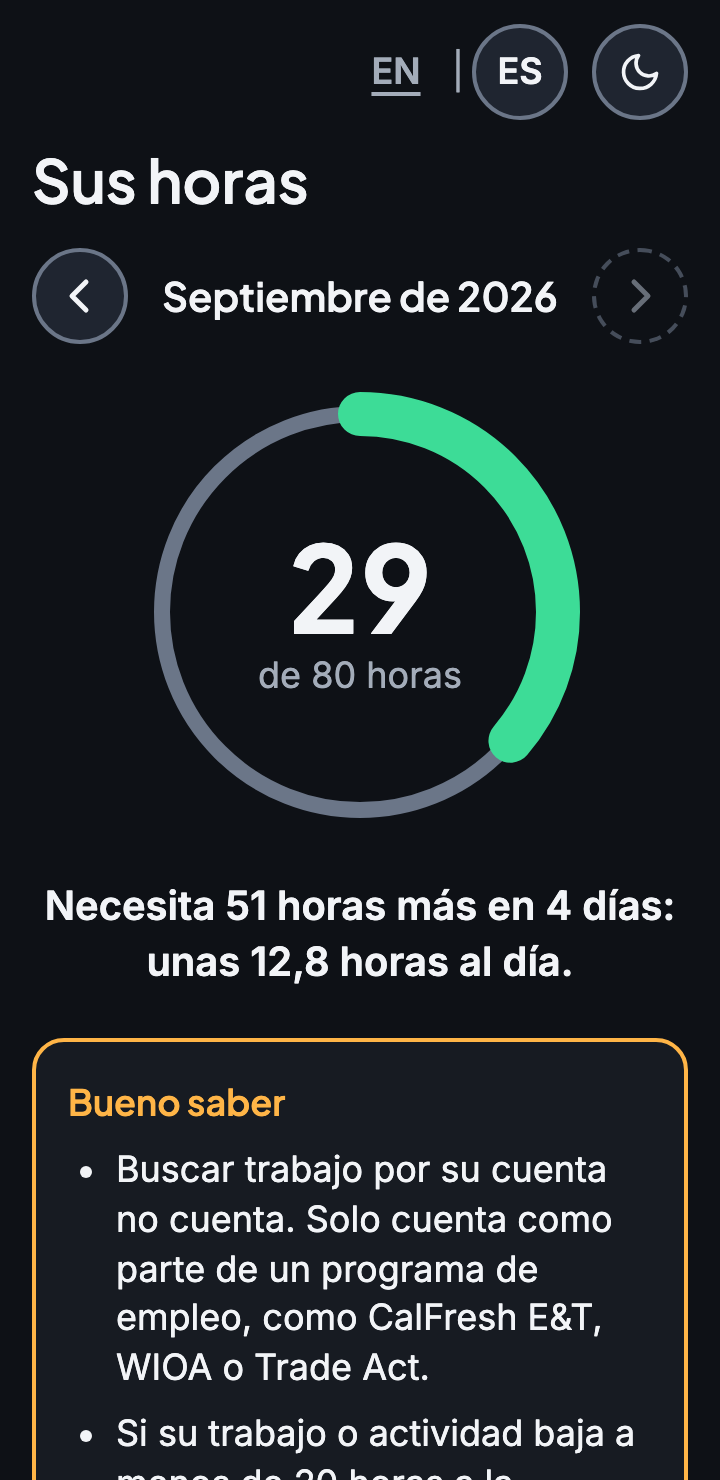
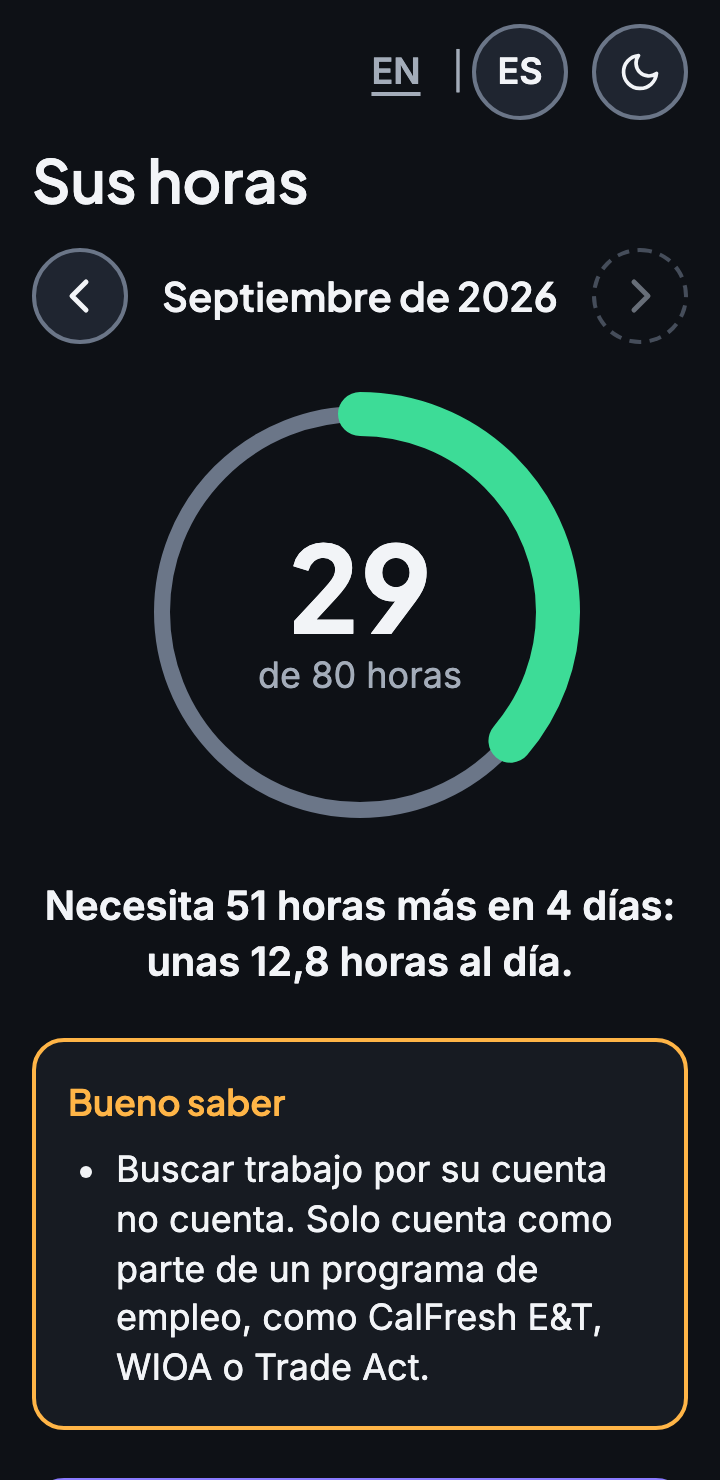
fix(log): neutral rule explainer instead of pace alert, partial-count tag, met demo previous month

Changed region(s): [[0.0306, 0.9324, 0.9167, 1.0], [0.9472, 0.9324, 0.9778, 1.0]]

diff --git a/src/app/log/notes.test.ts b/src/app/log/notes.test.ts
@@ -1,7 +1,7 @@
 import { describe, expect, test } from 'vitest'
 import { summarizeMonth } from '@/lib/hours/summarize'
 import type { Entry } from '@/lib/hours/types'
-import { notesFor } from './notes'
+import { mayCountPartly, notesFor } from './notes'
 
 const entry = (date: string, type: Entry['type'], hours: number, extra: Partial<Entry> = {}): Entry => ({
   id: `${date}-${type}-${hours}`,
@@ -13,48 +13,45 @@ const entry = (date: string, type: Entry['type'], hours: number, extra: Partial<
 })
 
 describe('log notes', () => {
-  test('behind_pace waits until day 7 of the month', () => {
-    const entries = [entry('2026-09-01', 'work', 1)]
-    for (const [today, shown] of [
-      ['2026-09-03', false],
-      ['2026-09-06', false],
-      ['2026-09-07', true],
-      ['2026-09-20', true],
-    ] as const) {
-      const summary = summarizeMonth(entries, '2026-09', today)
-      expect(summary.status, today).toBe('behind')
-      expect(notesFor(summary, false, entries.length).includes('behind_pace'), today).toBe(shown)
-    }
-  })
-
-  test('behind_pace never shows when on track or met', () => {
-    const onTrack = summarizeMonth([entry('2026-09-09', 'work', 15), entry('2026-09-10', 'work', 15)], '2026-09', '2026-09-10')
-    expect(onTrack.status).toBe('on_track')
-    expect(notesFor(onTrack, false, 1)).not.toContain('behind_pace')
-  })
-
-  test('an empty past month shows no behind note; a past month with hours does', () => {
-    const empty = summarizeMonth([], '2026-08', '2026-09-26')
-    expect(notesFor(empty, true, 0)).toEqual([])
-    const some = summarizeMonth([entry('2026-08-10', 'work', 20)], '2026-08', '2026-09-26')
-    expect(notesFor(some, true, 1)).toContain('behind_pace')
+  test('behind_pace is never a note, even when the engine flags it (current or past month)', () => {
+    const current = summarizeMonth([entry('2026-09-01', 'work', 1)], '2026-09', '2026-09-20')
+    expect(current.status).toBe('behind')
+    expect(current.flags).toContain('behind_pace')
+    expect(notesFor(current)).toEqual([])
+    const past = summarizeMonth([entry('2026-08-10', 'work', 20)], '2026-08', '2026-09-26')
+    expect(past.flags).toContain('behind_pace')
+    expect(notesFor(past)).toEqual([])
   })
 
   test('workfare alone gets the workfare_only note; mixed gets workfare_mixed only', () => {
     const only = summarizeMonth([entry('2026-09-02', 'workfare', 10)], '2026-09', '2026-09-26')
-    expect(notesFor(only, false, 1)).toContain('workfare_only')
-    expect(notesFor(only, false, 1)).not.toContain('workfare_mixed')
+    expect(notesFor(only)).toEqual(['workfare_only'])
     const mixed = summarizeMonth(
       [entry('2026-09-02', 'workfare', 10), entry('2026-09-03', 'work', 10)],
       '2026-09',
       '2026-09-26',
     )
-    expect(notesFor(mixed, false, 2)).toContain('workfare_mixed')
-    expect(notesFor(mixed, false, 2)).not.toContain('workfare_only')
+    expect(notesFor(mixed)).toEqual(['workfare_mixed'])
   })
 
   test('job search outside a program gets its note', () => {
     const s = summarizeMonth([entry('2026-09-02', 'job_search', 3, { inProgram: false })], '2026-09', '2026-09-26')
-    expect(notesFor(s, false, 1)).toContain('job_search_outside_program')
+    expect(notesFor(s)).toEqual(['job_search_outside_program'])
+  })
+
+  test('capped in-program job search: the note, and "May count partly" only on in-program job-search rows', () => {
+    const program = entry('2026-09-02', 'program', 4)
+    const inProgram = entry('2026-09-03', 'job_search', 5, { inProgram: true })
+    const outside = entry('2026-09-04', 'job_search', 1, { inProgram: false })
+    const capped = summarizeMonth([program, inProgram, outside], '2026-09', '2026-09-26')
+    expect(capped.flags).toContain('job_search_capped')
+    expect(notesFor(capped)).toContain('job_search_capped')
+    expect(mayCountPartly(capped, inProgram)).toBe(true)
+    expect(mayCountPartly(capped, outside)).toBe(false)
+    expect(mayCountPartly(capped, program)).toBe(false)
+
+    const notCapped = summarizeMonth([entry('2026-09-02', 'program', 10), inProgram], '2026-09', '2026-09-26')
+    expect(notCapped.flags).not.toContain('job_search_capped')
+    expect(mayCountPartly(notCapped, inProgram)).toBe(false)
   })
 })

diff --git a/src/app/log/HourLog.tsx b/src/app/log/HourLog.tsx
@@ -12,7 +12,7 @@ import type { Entry, MonthSummary } from "@/lib/hours/types";
 import { EntryForm } from "./EntryForm";
 import { Ring } from "./Ring";
 import { formatDay, formatMonth, formatNumber } from "./format";
-import { notesFor } from "./notes";
+import { mayCountPartly, notesFor } from "./notes";
 
 // The hour log: one route, two views. The list (ring, pace line, notes, entries) is the
 // default; the add/edit form is `?add=1` / `?edit=<id>`. Views switch with the native
@@ -147,12 +147,12 @@ export function HourLog() {
   const monthName = formatMonth(locale, month);
   const met = summary.status === "met";
   const ringLabel = isPast
-    ? t("ring.labelPast", { counted: fmt(summary.counted), month: monthName })
+    ? t("ring.labelPast", { counted: fmt(summary.counted), month: formatMonth(locale, month, { capitalize: false }) })
     : met
       ? t("ring.labelMet", { counted: fmt(summary.counted) })
       : t("ring.label", { counted: fmt(summary.counted) });
 
-  const notes = loaded ? notesFor(summary, isPast, monthEntries.length) : [];
+  const notes = loaded ? notesFor(summary) : [];
   const groups = groupByDate(monthEntries);
 
   return (
@@ -198,7 +198,7 @@ export function HourLog() {
             countedText={fmt(summary.counted)}
             label={loaded ? ringLabel : t("loading")}
             unitText={t("ring.of80")}
-            doneText={t("ring.done")}
+            doneText={isPast ? t("ring.donePast") : t("ring.done")}
             met={met}
             loading={!loaded}
           />
@@ -265,6 +265,9 @@ export function HourLog() {
                               <p className="text-lg tabular-nums">{hoursText(entry.hours)}</p>
                               {entry.place && <p className="truncate text-lg text-text-muted">{entry.place}</p>}
                               {notCounted && <p className="text-lg font-semibold text-pace">{t("notCounted")}</p>}
+                              {mayCountPartly(summary, entry) && (
+                                <p className="text-lg font-semibold text-pace">{t("mayCountPartly")}</p>
+                              )}
                               {entry.type === "workfare" && (
                                 <p className="text-lg font-semibold text-pace">{t("workfareTag")}</p>
                               )}
@@ -293,6 +296,22 @@ export function HourLog() {
         </>
       )}
 
+      {/* Neutral background, collapsed by default: the rule's basics, including the 10-day
+          report, without the log claiming it knows the person is behind or screened. */}
+      <details className="group rounded-2xl border-2 border-border bg-surface">
+        <summary className="flex min-h-12 cursor-pointer list-none items-center justify-between gap-3 px-4 py-2 text-lg font-semibold [&::-webkit-details-marker]:hidden">
+          <span>{t("rule.title")}</span>
+          <svg width="20" height="20" viewBox="0 0 24 24" fill="none" stroke="currentColor" strokeWidth="2.5" strokeLinecap="round" strokeLinejoin="round" aria-hidden="true" className="shrink-0 group-open:rotate-180 motion-safe:transition-transform">
+            <path d="M6 9l6 6 6-6" />
+          </svg>
+        </summary>
+        <ul className="flex list-disc flex-col gap-2 pr-4 pb-4 pl-10">
+          <li className="text-lg leading-snug">{t("rule.adds")}</li>
+          <li className="text-lg leading-snug">{t("rule.jobSearch")}</li>
+          <li className="text-lg leading-snug">{t("rule.report")}</li>
+        </ul>
+      </details>
+
       <footer className="mt-2 flex flex-col gap-3 border-t-2 border-border pt-4">
         <p className="flex items-start gap-2 text-lg text-text-muted">
           <LockIcon />
@@ -315,7 +334,7 @@ function paceLine(
   t: (key: string, values?: Record<string, string | number>) => string,
 ): string {
   if (isPast) {
-    if (summary.status === "met") return t("pace.pastMet");
+    if (summary.status === "met") return t("pace.pastMet", { counted: fmt(summary.counted) });
     if (entryCount === 0) return t("pace.pastEmpty");
     return t("pace.pastBehind", { counted: fmt(summary.counted) });
   }

diff --git a/src/lib/hours/demo.ts b/src/lib/hours/demo.ts
@@ -5,8 +5,9 @@
 // shifts, two volunteering shifts, and one job-search entry outside a
 // qualifying program (so the "outside a program" flag shows).
 //
-// Achievable, not hopeless (Task 7 fix round 1 ruling): the counted total
-// targets clamp(80 − 3.5 × daysLeft, 10, 76), rounded down to a quarter hour.
+// Achievable, not hopeless (Task 7 fix round 1 ruling): the current month's
+// counted total targets clamp(80 − 3.5 × daysLeft, 10, 76), rounded down to a
+// quarter hour.
 // That leaves about 3.5 hours a day to go, so the demo shows 'behind' with a
 // calm, doable hours-per-day number instead of "12.8 hours a day".
 //
@@ -21,6 +22,9 @@ import { addMonths, daysInMonth, monthOf } from '@/lib/dates'
 import type { ActivityType, Entry } from './types'
 
 const PER_DAY_LEFT = 3.5
+// The previous month (seeded on days 1-3) is over, so it's shown as done: a past month
+// under 80 would read as a failed month (fix round 2 ruling).
+export const DEMO_PREVIOUS_MONTH_TOTAL = 82.5
 const MIN_GOAL = 10
 const MAX_GOAL = 76
 
@@ -49,10 +53,9 @@ export function demoGoal(month: string, throughDay: number): number {
   return goal
 }
 
-// Builds one month's worth of demo entries on days 1..throughDay (inclusive).
-function buildMonthEntries(month: string, throughDay: number): Entry[] {
-  const goal = demoGoal(month, throughDay)
-
+// Builds one month's worth of demo entries on days 1..throughDay (inclusive), with a
+// counted total of `goal` hours.
+function buildMonthEntries(month: string, throughDay: number, goal: number): Entry[] {
   const entries: Entry[] = []
   let counted = 0
   let index = 0
@@ -104,17 +107,18 @@ function buildMonthEntries(month: string, throughDay: number): Entry[] {
 
 // Deterministic demo entries for the current month of `today`. If `today`
 // falls within the first three days of the month, the previous month is
-// seeded too (fully, since it's over), so the demo has history to show when
-// the current month has barely started.
+// seeded too (fully, since it's over, and met: DEMO_PREVIOUS_MONTH_TOTAL), so
+// the demo has a finished month to show when the current month has barely
+// started. /log opens on that month on days 1-3.
 export function demoEntries(today: string): Entry[] {
   const month = monthOf(today)
   const dayOfMonth = Number(today.slice(8, 10))
 
-  const currentMonthEntries = buildMonthEntries(month, dayOfMonth)
+  const currentMonthEntries = buildMonthEntries(month, dayOfMonth, demoGoal(month, dayOfMonth))
 
   if (dayOfMonth <= 3) {
     const prevMonth = addMonths(month, -1)
-    const prevMonthEntries = buildMonthEntries(prevMonth, daysInMonth(prevMonth))
+    const prevMonthEntries = buildMonthEntries(prevMonth, daysInMonth(prevMonth), DEMO_PREVIOUS_MONTH_TOTAL)
     return [...prevMonthEntries, ...currentMonthEntries]
   }
 

diff --git a/e2e/log.spec.ts b/e2e/log.spec.ts
@@ -54,6 +54,15 @@ test("1. empty state, then 4 hours of volunteering today shows 4 of 80 and the e
   await expect(ring(page)).toHaveAttribute("aria-label", "0 of 80 hours this month");
   await expect(page.getByTestId("pace")).toHaveText("No hours yet this month.");
   await expect(page.getByText("Your hours are saved only on this phone.")).toBeVisible();
+  // "How the rule works" is collapsed; the 10-day report line lives only inside it.
+  const tenDays = page.getByText(
+    "If the work rule applies to you and your hours drop below 20 a week, tell your county within 10 days.",
+  );
+  await expect(tenDays).toBeHidden();
+  await page.getByText("How the rule works", { exact: true }).click();
+  await expect(tenDays).toBeVisible();
+  await expect(page.getByText("Work, volunteering and job programs add up. You need 80 hours a month.")).toBeVisible();
+  await page.getByText("How the rule works", { exact: true }).click();
   await expect(page.getByRole("link", { name: "Check if the rule applies to you" })).toHaveAttribute("href", "/screener");
 
   await addButton(page).click();
@@ -123,6 +132,25 @@ test("3. job search outside a program shows the note and doesn't change the coun
   const row = rows(page).filter({ hasText: "Job search" });
   await expect(row).toContainText("3 hours");
   await expect(row).toContainText("Doesn't count");
+  // One paid hour puts the month behind (1 hour can never project to 80): the pace line says
+  // so factually, but no "tell your county" alert appears among the notes.
+  await addEntry(page, { type: /^Paid work/, hours: "1" });
+  await expect(ring(page)).toHaveAttribute("aria-label", "1 of 80 hours this month");
+  await expect(page.getByTestId("pace")).toHaveText(/^You need \d+ more hours/);
+  await expect(page.getByRole("region", { name: "Good to know" })).not.toContainText("10 days");
+  await expect(page.getByText(/within 10 days/)).toBeHidden();
+});
+
+test("3b. capped job search in a program: the row says it may count partly", async ({ page }) => {
+  await gotoLog(page);
+  await addEntry(page, { type: /^Job training or program/, hours: "4" });
+  await addEntry(page, { type: /^Job search/, hours: "5", inProgram: true });
+  // 4 program hours + job search counted only up to 3.75 (less than the program hours).
+  await expect(ring(page)).toHaveAttribute("aria-label", "7.8 of 80 hours this month");
+  const jobSearch = rows(page).filter({ hasText: "Job search" });
+  await expect(jobSearch).toContainText("May count partly");
+  await expect(jobSearch).not.toContainText("Doesn't count");
+  await expect(rows(page).filter({ hasText: "Job training or program" })).not.toContainText("May count partly");
 });
 
 test("4. 25 hours shows an error on the hours field, focuses it, and saves nothing", async ({ page }) => {

diff --git a/src/app/log/notes.ts b/src/app/log/notes.ts
@@ -5,29 +5,24 @@ import type { Flag, MonthSummary } from "@/lib/hours/types";
 // `workfare_only` is not an engine flag: the engine leaves workfare out of the count
 // (docs/research/calfresh-rules-verification.md row 6b: workfare can't be combined with
 // other hours), so a workfare-only month would otherwise show 0 with no explanation.
-export type Note = Flag | "workfare_only";
+//
+// The engine's `behind_pace` flag is deliberately never a note (fix round 2 ruling). The log
+// can't know whether the person was screened under H.R. 1 or is just logging late, so a
+// pace-triggered "tell your county" alert can alarm the wrong people (research row 11). The
+// 10-day reporting rule lives in the neutral "How the rule works" disclosure instead, and
+// the pace line itself stays factual.
+export type Note = Exclude<Flag, "behind_pace"> | "workfare_only";
 
-export const NOTE_ORDER: Note[] = [
-  "job_search_outside_program",
-  "job_search_capped",
-  "workfare_mixed",
-  "workfare_only",
-  "behind_pace",
-];
+export const NOTE_ORDER: Note[] = ["job_search_outside_program", "job_search_capped", "workfare_mixed", "workfare_only"];
 
-// The "tell your county within 10 days" note waits for a week of the month, so someone who
-// just started logging isn't alarmed by a pace built on one or two days (fix round 1 ruling).
-export const BEHIND_NOTE_MIN_DAYS = 7;
-
-export function notesFor(summary: MonthSummary, isPast: boolean, entryCount: number): Note[] {
-  const set = new Set<Note>(summary.flags);
+export function notesFor(summary: MonthSummary): Note[] {
+  const set = new Set<string>(summary.flags);
   if (summary.byType.workfare > 0 && !set.has("workfare_mixed")) set.add("workfare_only");
-  const showBehind =
-    summary.status === "behind" &&
-    summary.daysElapsed >= BEHIND_NOTE_MIN_DAYS &&
-    // A past month with nothing in it is most likely a month before the person started
-    // using the app, not a month they fell behind in.
-    !(isPast && entryCount === 0);
-  if (!showBehind) set.delete("behind_pace");
   return NOTE_ORDER.filter((note) => set.has(note));
+}
+
+// In-program job-search rows get a "May count partly" tag when the month's job search is
+// capped (research row 7: it counts only while it is less than the other program hours).
+export function mayCountPartly(summary: MonthSummary, entry: { type: string; inProgram?: boolean }): boolean {
+  return entry.type === "job_search" && entry.inProgram === true && summary.flags.includes("job_search_capped");
 }

diff --git a/src/lib/hours/__tests__/store.test.ts b/src/lib/hours/__tests__/store.test.ts
@@ -13,8 +13,8 @@ import {
 } from '../store'
 import { summarizeMonth, validateEntry } from '../summarize'
 import type { Entry } from '../types'
-import { daysInMonth, monthOf } from '@/lib/dates'
-import { demoGoal } from '../demo'
+import { addMonths, daysInMonth, monthOf } from '@/lib/dates'
+import { DEMO_PREVIOUS_MONTH_TOTAL, demoGoal } from '../demo'
 
 // vitest's default environment is Node, which has no sessionStorage. safe.ts
 // reads globalThis.sessionStorage, so give it a minimal in-memory stand-in
@@ -270,6 +270,10 @@ describe('demoEntries', () => {
         expect(summary.counted, today).toBe(demoGoal(month, day))
         expect(summary.status, today).toBe('behind')
         if (summary.neededPerDay !== null) expect(summary.neededPerDay, today).toBeLessThanOrEqual(4.5)
+        if (day <= 3) {
+          const prev = addMonths(month, -1)
+          expect(summarizeMonth(entries, prev, today).status, `${today} previous month`).toBe('met')
+        }
         expect(summary.flags, today).toContain('job_search_outside_program')
       }
     }
@@ -283,6 +287,16 @@ describe('demoEntries', () => {
     const octoberEntries = entries.filter((e) => monthOf(e.date) === '2026-10')
     for (const e of octoberEntries) {
       expect(e.date <= '2026-10-02').toBe(true)
+    }
+
+    // The previous month is over and shown as met (82.5 hours), never a failed month.
+    const september = summarizeMonth(entries, '2026-09', '2026-10-02')
+    expect(september.status).toBe('met')
+    expect(september.counted).toBe(DEMO_PREVIOUS_MONTH_TOTAL)
+    expect(september.counted).toBeGreaterThanOrEqual(80)
+    for (const e of septemberEntries) {
+      const others = entries.filter((o) => o.id !== e.id && o.date === e.date)
+      expect(validateEntry(e, others)).toEqual([])
     }
 
     // Deterministic: calling it again produces the exact same entries.

diff --git a/src/app/log/format.ts b/src/app/log/format.ts
@@ -36,9 +36,10 @@ function capitalize(text: string, locale: string): string {
 }
 
 // "September 2026" / "Septiembre de 2026"
-export function formatMonth(locale: string, month: string): string {
+// Capitalized for a heading; pass `{ capitalize: false }` for mid-sentence use ("en septiembre").
+export function formatMonth(locale: string, month: string, { capitalize: cap = true } = {}): string {
   const text = new Intl.DateTimeFormat(locale, { month: "long", year: "numeric", timeZone: "UTC" }).format(utcDate(month));
-  return capitalize(text, locale);
+  return cap ? capitalize(text, locale) : text;
 }
 
 // "Saturday, September 26" / "Sábado, 26 de septiembre"

diff --git a/src/app/log/format.test.ts b/src/app/log/format.test.ts
@@ -21,6 +21,7 @@ describe('hour log formatting', () => {
   test('months and days are formatted from the calendar date, not the device time zone', () => {
     expect(formatMonth('en', '2026-09')).toBe('September 2026')
     expect(formatMonth('es', '2026-09')).toBe('Septiembre de 2026')
+    expect(formatMonth('es', '2026-09', { capitalize: false })).toBe('septiembre de 2026')
     expect(formatDay('en', '2026-10-01')).toBe('Thursday, October 1')
     expect(formatDay('es', '2026-10-01')).toBe('Jueves, 1 de octubre')
   })

diff --git a/docs/AI-USE.md b/docs/AI-USE.md
@@ -26,5 +26,6 @@
 | 2026-09-26 | `src/app/screener/Checklist.tsx`, `src/lib/rules/{schema,engine}.ts`, `rules/ca-calfresh-2026.json` (`veteran_info.checklistNote_en/_es` only), `src/lib/rules/__tests__/{schema,engine,real-file}.test.ts`, `src/lib/i18n/__tests__/exempt-wording.test.ts`, `messages/{en,es}.json`, `e2e/screener.spec.ts`, `docs/screenshots/phase2/*` | Phase 2, Task 4 fix round 1: full-width checklist rows with the "More about this" disclosure below each label; a sticky bottom action bar ("Continue (n checked)" when n ≥ 1, otherwise "None of these apply" and "I'm not sure"), hidden in print; checklist `<fieldset>` named by the heading and described by the sub-line; an optional `checklistNote_en/_es` rule field (schema-limited to info rules with outcome `continue`, surfaced by `ruleText`) shown on the checklist instead of the hint; tests that the veteran note quotes the disability rule's current labels. **The new `checklistNote_es` and "Continuar ({n} marcada/s)" Spanish were drafted by AI and need native review.** | Controller ruled the layout, the sticky bar's contents, the new field's name/scope and the exact English and Spanish note wording |
 | 2026-09-26 | `src/lib/hours/types.ts`, `src/lib/hours/summarize.ts`, `src/lib/hours/__tests__/summarize.test.ts` | Phase 2, Task 5: TDD (RED confirmed `Cannot find module '../summarize'`, then GREEN, 14/14 new tests; 256/256 total, `npm run typecheck` clean) for the pure month-summary engine (`summarizeMonth`, `validateEntry`). All hour math is done in integer quarter-hours (`hours * 4`) and converted back only at the return boundary, so repeated 0.25-hour additions (e.g. 79.75 + 0.25) never drift. `jobSearchCounted = min(jobSearchInProgram, max(0, program − 1 quarter-hour))`: job search counts only inside an E&T/WIOA/Trade Act program and only while strictly under the program's own hours, matching the brief's exact formula (a first draft without the "minus one quarter-hour" term over-counted the brief's own test case, 10 program hours capping 12 in-program job-search hours at 10 instead of the required 9.75 — caught by the brief's test, not discovered independently). Workfare is excluded from `counted` and flags `workfare_mixed` when mixed with any other counted activity or out-of-program job search | Team's task-5 brief specified the exact types, counting-rule formulas, and full test file verbatim; the quarter-hour cap formula was implemented, checked against the brief's own test, corrected once, and re-verified rather than guessed |
 | 2026-09-26 | `package.json` (added `idb` dependency, `fake-indexeddb` devDependency), `src/lib/hours/store.ts`, `src/lib/hours/demo.ts`, `src/lib/hours/__tests__/store.test.ts` | Phase 2, Task 6: TDD (RED confirmed all 10 new tests fail against a stub `store.ts` whose exports each `throw new Error('not implemented')`, then GREEN, 10/10; 269/269 total, `npm run typecheck` and `npm run build` clean) for the IndexedDB entry store (`openStore`, `EntryValidationError`, `getMode`/`setMode`, `demoEntries`, `startDemo`/`exitDemo`) using `idb`'s `openDB` (version 1, object store `entries` keyed on `id`, index on `date`). Two entirely separate IndexedDB databases back the two modes (`hourproof` / `hourproof-demo`); `startDemo`/`exitDemo` only ever clear-and-reseed the demo database, and mode itself is just a `hp.mode` flag in `sessionStorage` via the existing `safe.ts` helpers — never a data migration. `put()` reads that day's other entries from the `date` index itself and excludes the entry's own previous version (same id) before calling `validateEntry`, so editing an entry doesn't double-count its own old hours. `demoEntries(today)` (in the new `demo.ts`) is deterministic (no `Math.random`/`Date.now` — ids and `createdAt` are derived from the date string and a running index) and builds a composite "Marco"-style persona: variable-length warehouse work shifts, two community-kitchen volunteer shifts, and one job-search entry outside a program, spread over odd days up to `today` and capped at ~65% of that month's prorated 80-hour target (verified in-test to land strictly between 50% and 80% of the prorated target, giving `summarizeMonth(...).status === 'behind'`); if `today` is in the first 3 days of a month, the full previous month is seeded too. A real bug was caught by the brief's own test, not found independently: the first draft picked volunteer days by absolute day-of-month (e.g. day 6, day 13), but the work-shift loop only ever lands on odd days (1, 3, 5, ...), so an even volunteer day could never be hit — one of the two volunteer shifts silently disappeared. Fixed by picking volunteer slots by shift index (3rd and 6th shift) instead of by calendar day. `openStore` opens a fresh `idb` connection per call rather than caching one per database name, so mode-switching and tests that reset IndexedDB between cases can't be served a stale connection | Team's task-6 brief specified the exact interfaces, DB/store/index names, demo-persona constraints (places "Warehouse"/"Community kitchen", ~65% of prorated target, previous-month seeding rule) and the test list verbatim. The connection-caching decision (no cache, vs. a per-db-name singleton) and the volunteer-slot bug/fix were not in the brief and are flagged here for review; `npm run build` was also run once per the brief and confirms the store isn't imported by any server-rendered route yet, so it never runs on the server |
-| 2026-09-26 | `src/app/log/{page,HourLog,EntryForm,Ring}.tsx`, `src/app/log/format.ts`, `src/app/log/format.test.ts`, `src/components/ui/DemoBanner.tsx`, `src/components/ui/Screen.tsx` (banner slot), `src/app/page.tsx` (banner on home), `messages/en.json`, `messages/es.json` (`log.*`, `demo.*`), `src/lib/theme/__tests__/contrast.test.ts`, `scripts/measure-js.mjs` (`/log` route), `e2e/log.spec.ts`, `docs/screenshots/phase2/log-*` | Phase 2, Task 7: built the hour log on one route. A hand-written SVG 80-hour ring (220px, 22px `proof` arc on a `surface-2` track, 200ms arc transition only under `motion-safe`, `role="img"` with a localized label), the pace line and plain-word notes from `summarizeMonth` (plus a UI-only `workfare_only` note, since the engine leaves workfare out of the count), month navigation capped at the current month, an entry list grouped by date, and an add/edit form (`?add=1` / `?edit=<id>` switched with the native history API so it works offline and the phone's Back closes it) with type radio cards, −/+ quarter-hour steps, 1/2/4/8 chips, a comma-tolerant hours box, errors from `EntryValidationError` codes linked by `aria-describedby` with focus on the first one, and a keyboard-reachable delete confirm. The demo banner (`pace` bar, "Exit demo") shows on `/log` and `/`. 8 new e2e cases (41/41 total), 4 new format unit tests and 6 contrast tests. **The Spanish `log.*` and `demo.*` strings were drafted by AI and need native review**, in particular "trabajo por beneficios (workfare)", "Bueno saber" and the pace sentences. | The plan and task brief fixed the screen's contents, English wording of the pace lines and notes, the ring spec, the form fields and the 7 e2e cases; the controller set the demo previous-month rule, the 200 KB budget and the accessibility requirements |
+| 2026-09-26 | `src/app/log/{page,HourLog,EntryForm,Ring}.tsx`, `src/app/log/format.ts`, `src/app/log/format.test.ts`, `src/components/ui/DemoBanner.tsx`, `src/components/ui/Screen.tsx` (banner slot), `src/app/page.tsx` (banner on home), `messages/en.json`, `messages/es.json` (`log.*`, `demo.*`), `src/lib/theme/__tests__/contrast.test.ts`, `scripts/measure-js.mjs` (`/log` route), `e2e/log.spec.ts`, `docs/screenshots/phase2/log-*` | Phase 2, Task 7: built the hour log on one route. A hand-written SVG 80-hour ring (220px, 22px `proof` arc over a track that is now an 8px `border`-token circle (fix round 1; it was `surface-2` at first), 200ms arc transition only under `motion-safe`, `role="img"` with a localized label), the pace line and plain-word notes from `summarizeMonth` (plus a UI-only `workfare_only` note, since the engine leaves workfare out of the count), month navigation capped at the current month, an entry list grouped by date, and an add/edit form (`?add=1` / `?edit=<id>` switched with the native history API so it works offline and the phone's Back closes it) with type radio cards, −/+ quarter-hour steps, 1/2/4/8 chips, a comma-tolerant hours box, errors from `EntryValidationError` codes linked by `aria-describedby` with focus on the first one, and a keyboard-reachable delete confirm. The demo banner (`pace` bar, "Exit demo") shows on `/log` and `/`. 8 new e2e cases (41/41 total), 4 new format unit tests and 6 contrast tests. **The Spanish `log.*` and `demo.*` strings were drafted by AI and need native review**, in particular "trabajo por beneficios (workfare)", "Bueno saber" and the pace sentences. | The plan and task brief fixed the screen's contents, English wording of the pace lines and notes, the ring spec, the form fields and the 7 e2e cases; the controller set the demo previous-month rule, the 200 KB budget and the accessibility requirements |
 | 2026-09-26 | `src/lib/hours/demo.ts`, `src/lib/hours/__tests__/store.test.ts`, `src/app/log/{HourLog,EntryForm,Ring}.tsx`, `src/app/log/notes.ts`, `src/app/log/notes.test.ts`, `src/app/globals.css`, `messages/en.json`, `messages/es.json`, `src/lib/theme/__tests__/contrast.test.ts`, `e2e/log.spec.ts`, `docs/screenshots/phase2/log-*` | Phase 2, Task 7 fix round 1, six controller rulings: (1) the ring track is now an 8px `border`-token circle under the 22px arc, so an empty ring reads as a ring; (2) the demo's counted total targets `floor-quarter(clamp(80 − 3.5 × daysLeft, 10, 76))`, which leaves about 3.5 hours a day to go, and demo entries have no `place` (seeded names were English-only on Spanish screens); new tests for 2026-10-20, 2026-09-26 and every day of four months; `/log` opens the demo on the previous month on days 1-3; (3) the form order is date → hours → type → program → place → note, with a sticky Save/Cancel bar, and focus moves center fields clear of the bar; (4) the chosen date is spelled out in the page language under the native date input; (5) the behind note is reworded and shows only when behind and at least 7 days into the month (`notes.ts`, unit-tested); (6) the workfare, job-search and in-program strings are reworded to match research rows 6b and 7. **The new Spanish strings were drafted by AI and need native review.** | The controller made all six rulings, including the demo formula and the new English behind-note wording |
+| 2026-09-26 | `src/app/log/{HourLog.tsx,notes.ts,notes.test.ts,format.ts,format.test.ts}`, `src/lib/hours/demo.ts`, `src/lib/hours/__tests__/store.test.ts`, `messages/en.json`, `messages/es.json`, `e2e/log.spec.ts`, `docs/screenshots/phase2/log-*` | Phase 2, Task 7 fix round 2, controller rulings: (1) the engine's `behind_pace` flag is never shown as a note, and the fix-round-1 behind note is removed. A collapsed "How the rule works" disclosure at the bottom of `/log` holds three neutral bullets (80 hours from combined activities, job search only inside a program and workfare checked separately, the 10-day report "if the work rule applies to you"); the factual pace line stays. (2) In-program job-search rows show "May count partly" when the month's job search is capped (`mayCountPartly`, unit- and e2e-tested). (3) On days 1-3 the demo's previous month is seeded met at 82.5 hours (`DEMO_PREVIOUS_MONTH_TOTAL`), tested for every day 1-3 in the sweep. Also: past met months say "This month is over. You had {n} hours…" with a "Month done" ring label, and the past ring's aria-label uses a lowercase month mid-sentence. **The new Spanish strings (the disclosure bullets, "Puede contar en parte", "Mes cumplido") were drafted by AI and need native review.** | The controller made all rulings, including the three bullets' English wording |
